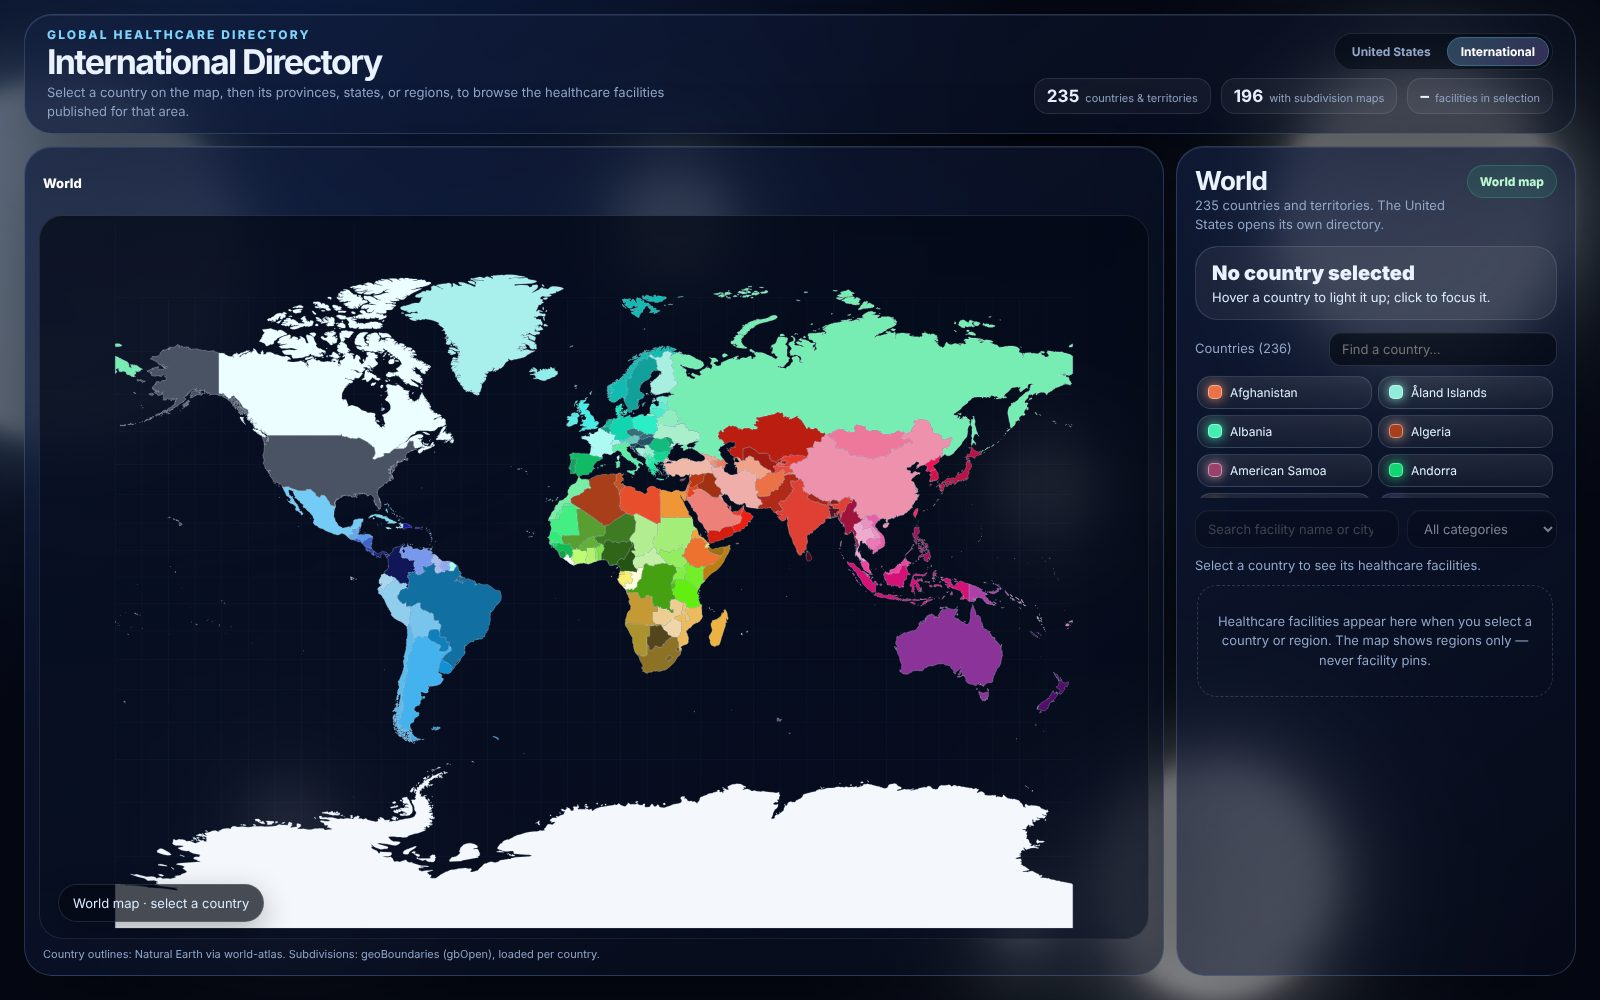
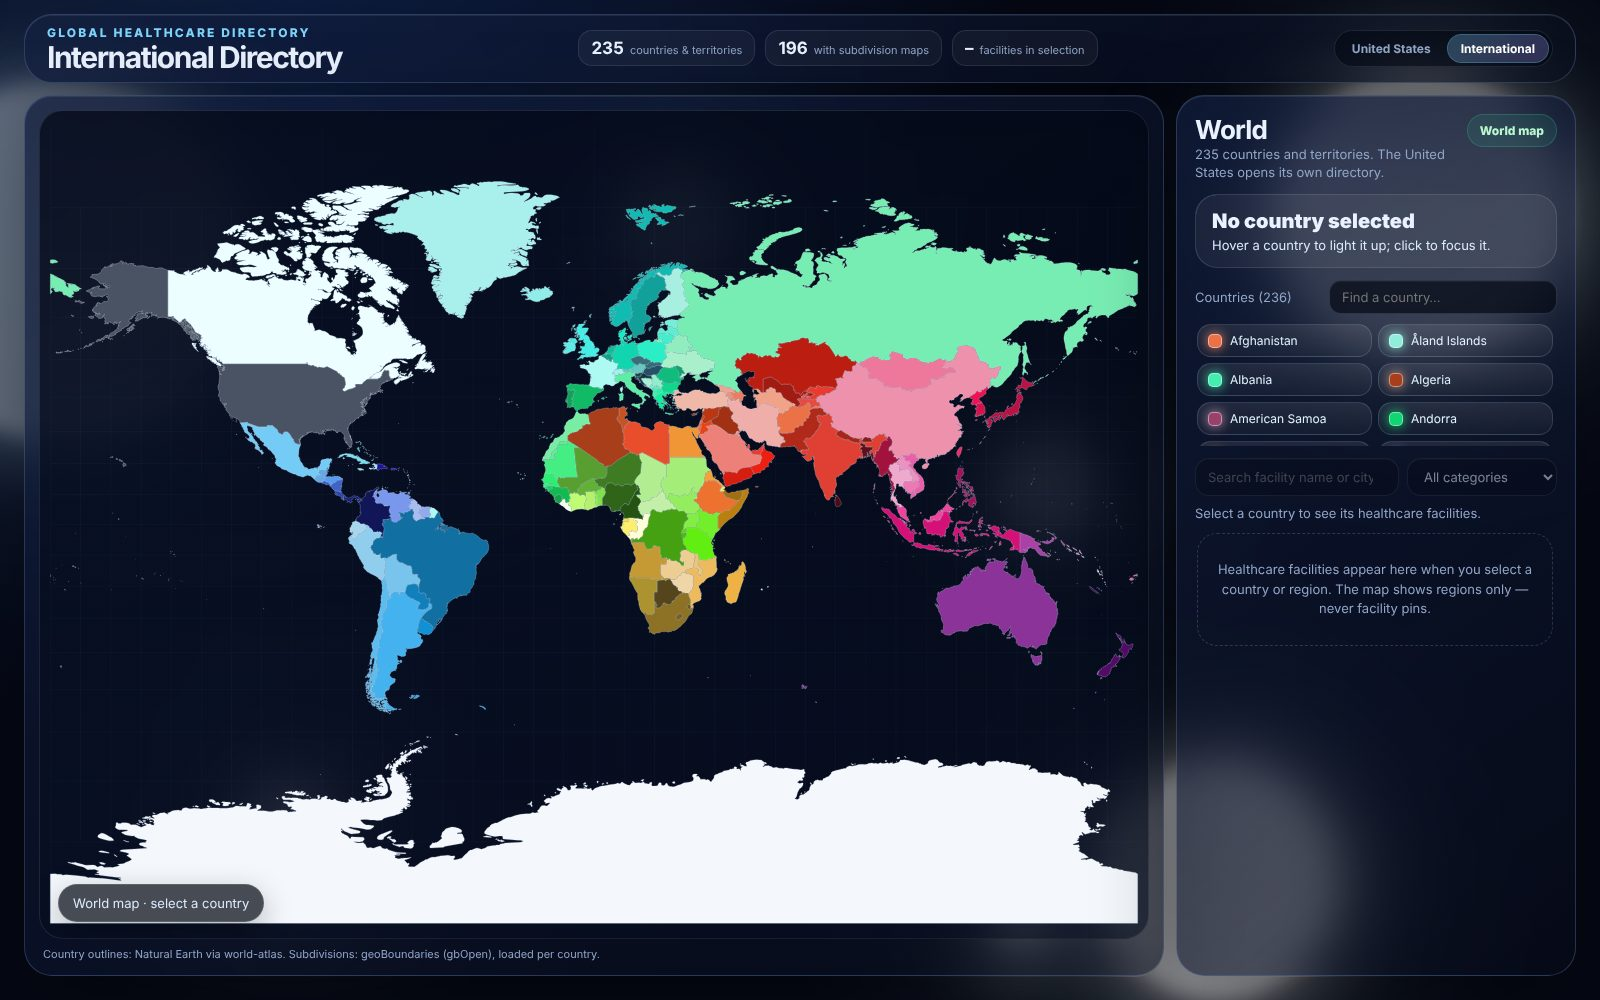
One-row header (title | stats | toggle), remove subtitle and world-level toolbar
- Header is a single row: title, the three stat boxes, then the
  United States / International toggle. The descriptive subtitle is removed.
  Header height ~120px -> ~68px; map area ~724px -> ~830px tall at 1600x1000.
  On phones the stat boxes wrap below the title and toggle.
- The toolbar row that only showed "World" is hidden on the world view; the
  breadcrumbs and Back button appear once a country is selected.

Claude-Session: https://claude.ai/code/session_01Qy7vVREGma9DSC7PB3AgeL

diff --git a/assets/css/world.css b/assets/css/world.css
@@ -138,23 +138,24 @@ h2{margin:0;font-size:26px;letter-spacing:-.03em}
 .field div{font-weight:650;overflow-wrap:anywhere}
 .field a{color:var(--accent)}
 
-/* Compact header: title block left, directory toggle stacked above the stats on the right, so the
- * map gets the height. */
-.header{padding:12px 22px;align-items:center}
-.header h1{font-size:clamp(24px,2.4vw,34px);margin-top:4px}
-.header .sub{font-size:13px;margin-top:5px;max-width:640px}
-.headerSide{display:flex;flex-direction:column;align-items:flex-end;gap:8px}
-.headerSide .directorySwitch{margin-top:0}
-.headerSide .directorySwitch a{padding:6px 13px;font-size:12px}
-.headerSide .stat{min-width:0;padding:7px 12px;border-radius:14px}
-.headerSide .stat b{font-size:17px;display:inline;margin-right:6px}
-.headerSide .stat span{font-size:11px}
+/* Single-row header: title | three stat boxes | directory toggle. */
+.header{padding:10px 22px;align-items:center;flex-wrap:nowrap;gap:24px}
+.header .titleBlock{flex:0 0 auto}
+.header h1{font-size:clamp(22px,2.2vw,30px);margin-top:3px;white-space:nowrap}
+.header .stats{flex:1;justify-content:center;flex-wrap:nowrap}
+.header .stat{min-width:0;padding:7px 12px;border-radius:14px;white-space:nowrap}
+.header .stat b{font-size:17px;display:inline;margin-right:6px}
+.header .stat span{font-size:11px}
+.header .directorySwitch{margin-top:0;flex:0 0 auto}
+.header .directorySwitch a{padding:6px 13px;font-size:12px}
+.mapToolbar[hidden]{display:none}
 .app{gap:12px;padding-top:14px}
 @media(max-width:1100px){.app{grid-template-columns:minmax(0,1fr) 340px}}
 @media(max-width:860px){
   .app{display:flex;flex-direction:column;padding:10px;gap:12px;height:auto;min-height:100vh}
   .header{padding:14px 16px}.stats{justify-content:flex-start}.stat{min-width:0;flex:1}
-  .headerSide{align-items:stretch;width:100%}.headerSide .directorySwitch{align-self:flex-start}
+  .header{flex-wrap:wrap;gap:10px}.header .stats{order:3;flex-basis:100%;justify-content:flex-start;flex-wrap:wrap}
+  .header .stat{white-space:normal;padding:6px 10px}.header .stat b{display:block;margin:0}.header .stat span{font-size:10px;line-height:1.2}
   .mapPanel{height:62vh;min-height:380px;padding:10px}
   .sidePanel{position:static;height:auto;min-height:0;overflow:visible}
   .facilityList{max-height:65vh}

diff --git a/world.html b/world.html
@@ -14,26 +14,23 @@
   <div class="tooltip" id="tooltip" role="tooltip"></div>
   <div class="app">
     <header class="header glass">
-      <div>
+      <div class="titleBlock">
         <div class="eyebrow">Global Healthcare Directory</div>
         <h1>International Directory</h1>
-        <p class="sub">Select a country on the map, then its provinces, states, or regions, to browse the healthcare facilities published for that area.</p>
       </div>
-      <div class="headerSide">
-        <nav class="directorySwitch" aria-label="Directory">
-          <a href="/">United States</a>
-          <a href="/world.html" aria-current="page">International</a>
-        </nav>
-        <div class="stats">
-          <div class="stat"><b id="statCountries">–</b><span>countries &amp; territories</span></div>
-          <div class="stat"><b id="statSubdivided">–</b><span>with subdivision maps</span></div>
-          <div class="stat"><b id="statFacilities">–</b><span>facilities in selection</span></div>
-        </div>
+      <div class="stats">
+        <div class="stat"><b id="statCountries">–</b><span>countries &amp; territories</span></div>
+        <div class="stat"><b id="statSubdivided">–</b><span>with subdivision maps</span></div>
+        <div class="stat"><b id="statFacilities">–</b><span>facilities in selection</span></div>
       </div>
+      <nav class="directorySwitch" aria-label="Directory">
+        <a href="/">United States</a>
+        <a href="/world.html" aria-current="page">International</a>
+      </nav>
     </header>
 
     <main class="mapPanel glass" aria-label="International map">
-      <div class="mapToolbar">
+      <div class="mapToolbar" id="mapToolbar" hidden>
         <nav class="crumbs" aria-label="Breadcrumb"><ol id="breadcrumbs"></ol></nav>
         <span class="toolbarSpacer"></span>
         <button id="backBtn" type="button" hidden>← Back</button>

diff --git a/assets/js/world-map.js b/assets/js/world-map.js
@@ -370,6 +370,7 @@ function updatePanel() {
   $('panelTitle').textContent = current ? current.name : country ? country.name : 'World';
   $('modeBadge').textContent = current ? levelLabel(country, chain.length - 1) : country ? 'Country' : 'World map';
   $('backBtn').hidden = !country;
+  $('mapToolbar').hidden = !country; // breadcrumbs/back only once a country is selected
   $('backBtn').textContent = chain.length > 1 ? `← ${chain.at(-2).name}` : chain.length === 1 ? `← ${country.name}` : '← World';
   document.documentElement.style.setProperty('--glow', colors?.glow || '#69dcff');
   document.documentElement.style.setProperty('--cardGlow', colors?.glow || 'rgba(125,211,252,.8)');
